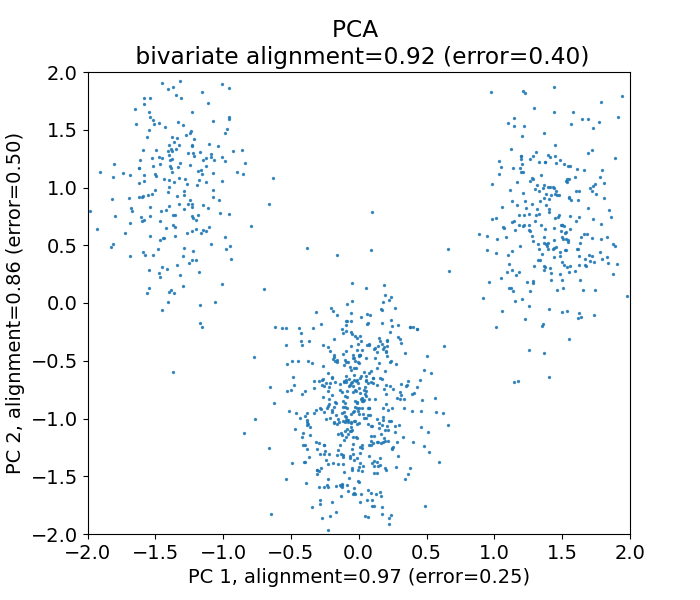
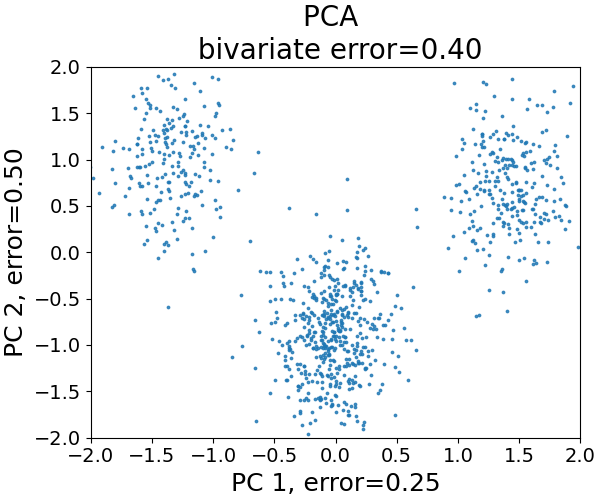
feat: rank two simu figures with much larger font size

diff --git a/simulation/rank_two_figures.py b/simulation/rank_two_figures.py
@@ -10,6 +10,10 @@ from simulation.helpers import get_joint_alignment, get_marginal_alignment, alig
 # dot plot
 # ----------------------------------------------
 
+plt.rcParams['axes.titlesize'] = 20
+plt.rcParams['axes.labelsize'] = 18
+plt.rcParams['font.size'] = 18
+
 def load_PC_star(prior, s_star, n_copy=0):
     data_prefix = 'output/bivariate/%s/data/s_%.1f_%.1f' % (prior, s_star[0], s_star[1])
     u_star = np.load('%s_copy_%i_u_star.npy' % (data_prefix, n_copy), allow_pickle=False)
@@ -38,7 +42,7 @@ def plot_rank2_dePC(star, mar, joint, prior, s_star, plot_error=True):
     # plot_est = [star, pca_est, mar_est, joint_est]
     plot_est = [star, mar[:, :, 0], mar[:, :, -1], joint[:, :, -1]]
     plot_aligns = [[1, 1], pca_align, mar_align, joint_align]
-    plot_method = ['Ground truth', 'PCA', 'EB-PCA marginal estimation', 'EB-PCA joint estimation']
+    plot_method = ['Ground truth', 'PCA', 'Marginal EB-PCA', 'Joint EB-PCA']
 
     # start plotting
     for i in range(4):
@@ -50,15 +54,15 @@ def plot_rank2_dePC(star, mar, joint, prior, s_star, plot_error=True):
         #     metric_name = 'error'
 
         # generate plot
-        fig, ax = plt.subplots(nrows=1, ncols=1, figsize=(7, 6))
-        ax.scatter(plot_est[i][:, 0], plot_est[i][:, 1], s = 2, alpha = 0.8)
+        fig, ax = plt.subplots(nrows=1, ncols=1, figsize=(6,5), constrained_layout = True)
+        ax.scatter(plot_est[i][:, 0], plot_est[i][:, 1], s = 3, alpha = 0.8)
         if i > 0:
-            ax.set_title('%s \n bivariate %s=%.2f (error=%.2f)' % \
-                         (plot_method[i], metric_name, metric[0], get_error(metric[0])))
-            ax.set_xlabel('PC 1, %s=%.2f (error=%.2f)' % (metric_name, metric[1], get_error(metric[1])))
-            ax.set_ylabel('PC 2, %s=%.2f (error=%.2f)' % (metric_name, metric[2], get_error(metric[2])))
+            ax.set_title('%s \n bivariate error=%.2f' % \
+                         (plot_method[i], get_error(metric[0])))
+            ax.set_xlabel('PC 1, error=%.2f' % get_error(metric[1]))
+            ax.set_ylabel('PC 2, error=%.2f' % get_error(metric[2]))
         if i == 0:
-            ax.set_title('%s' % (plot_method[i]))
+            ax.set_title('%s \n' % (plot_method[i]))
             ax.set_xlabel('PC 1')
             ax.set_ylabel('PC 2')
         ax.set_xlim(-2, 2)
@@ -112,7 +116,6 @@ if __name__ == '__main__':
         for method in ['marginal', 'joint']:
             print('\n ########## %s EB-PCA ########## \n' % method)
             eval_align_stats(prior, method, s_star)
-    exit()
 
     # --------------------------
     # rank-2 simulation settings
